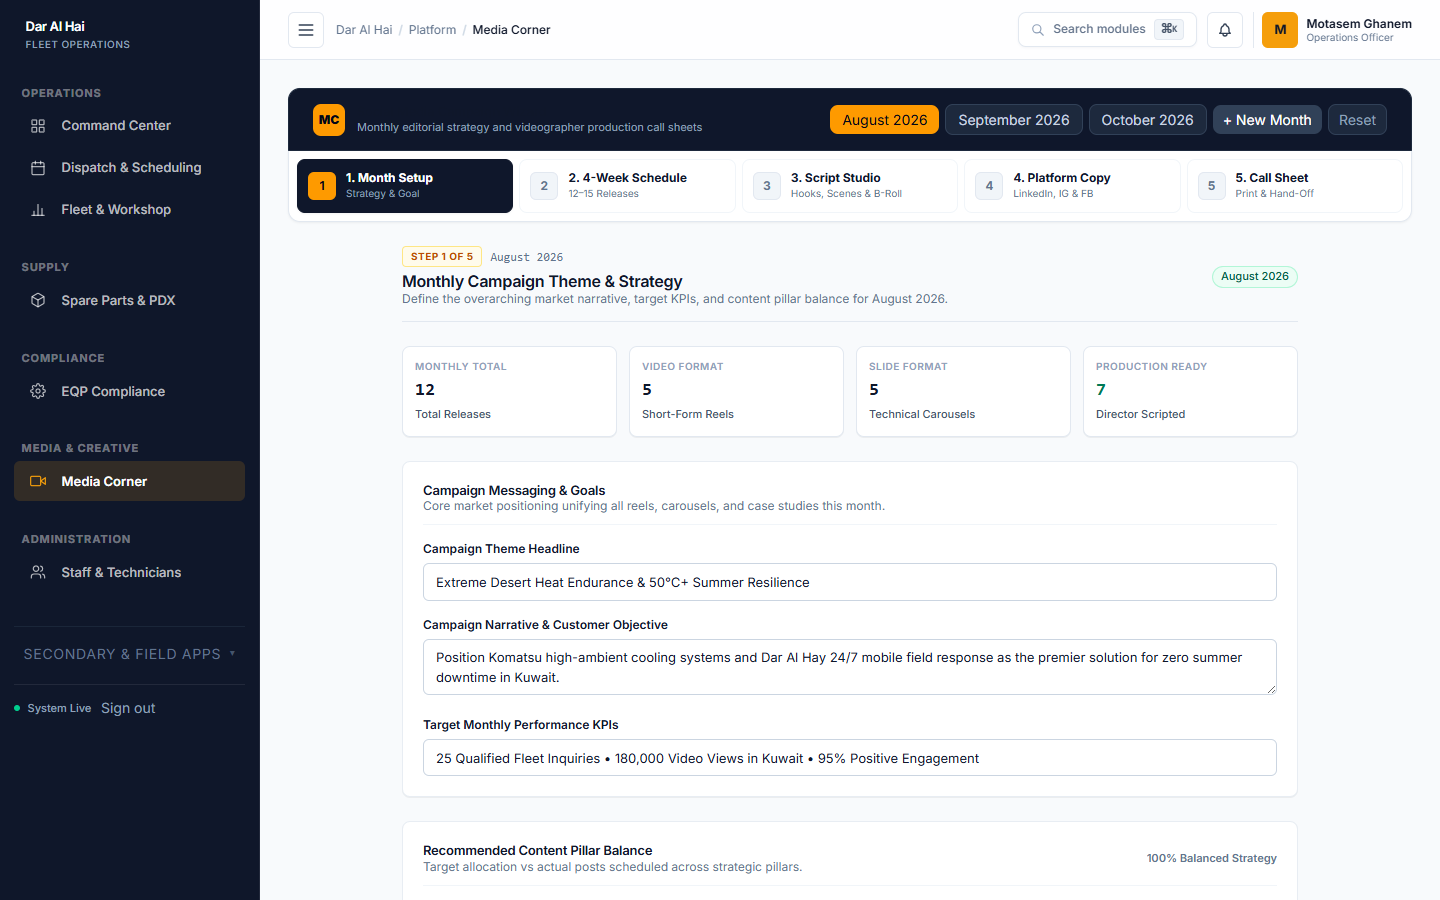
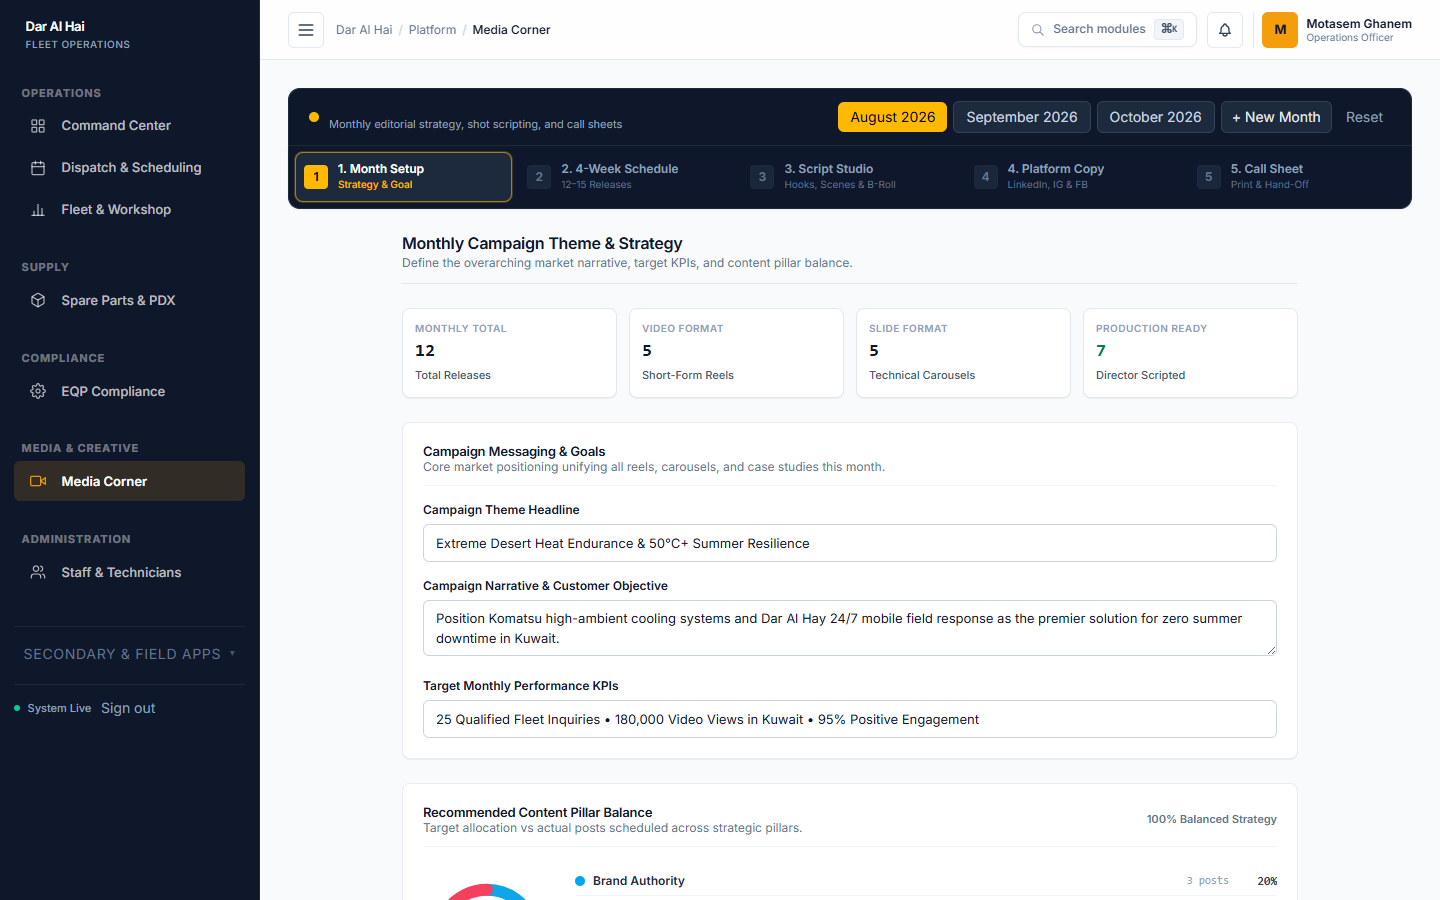
fix(media): unify wizard header and stepper into seamless command bar, removing redundant month badges

diff --git a/frontend/components/media/CampaignWizardStepper.js b/frontend/components/media/CampaignWizardStepper.js
@@ -25,15 +25,13 @@ export default function CampaignWizardStepper({
   return (
     <div className="space-y-0">
       {/* Top Header Bar */}
-      <div className="rounded-t-xl bg-slate-900 border border-slate-800 px-4 py-3.5 sm:px-6">
+      <div className="rounded-t-xl bg-slate-900 border border-slate-800 px-4 py-3 sm:px-5">
         <div className="flex flex-col sm:flex-row sm:items-center sm:justify-between gap-3">
-          <div className="flex items-center gap-3">
-            <div className="w-8 h-8 rounded-lg bg-amber-500 text-slate-950 flex items-center justify-center font-black text-xs shrink-0 shadow-xs">
-              MC
-            </div>
+          <div className="flex items-center gap-2.5">
+            <span className="w-2.5 h-2.5 rounded-full bg-amber-400 shrink-0" />
             <div>
-              <h2 className="text-sm font-bold text-white tracking-tight">Social Media Campaign Wizard</h2>
-              <p className="text-[11px] text-slate-400">Monthly editorial strategy and videographer production call sheets</p>
+              <h2 className="text-xs font-bold uppercase tracking-wider text-slate-100">Media & Campaign Studio</h2>
+              <p className="text-[11px] text-slate-400">Monthly editorial strategy, shot scripting, and call sheets</p>
             </div>
           </div>
 
@@ -46,10 +44,10 @@ export default function CampaignWizardStepper({
                   key={m.monthId}
                   type="button"
                   onClick={() => onSelectMonth(m.monthId)}
-                  className={`px-3 py-1 rounded-lg text-xs font-semibold transition-all cursor-pointer ${
+                  className={`px-3 py-1 rounded-md text-xs transition-all cursor-pointer ${
                     isSelected
-                      ? 'bg-amber-500 text-slate-950 font-bold shadow-xs'
-                      : 'bg-slate-800 border border-slate-700 text-slate-300 hover:bg-slate-700 hover:text-white'
+                      ? 'bg-amber-400 text-slate-950 font-bold shadow-xs'
+                      : 'bg-slate-800 border border-slate-700 text-slate-300 hover:bg-slate-700 hover:text-white font-medium'
                   }`}
                 >
                   {m.monthName}
@@ -60,7 +58,7 @@ export default function CampaignWizardStepper({
             <button
               type="button"
               onClick={onOpenNewMonthModal}
-              className="px-2.5 py-1 rounded-lg text-xs font-bold bg-slate-700 hover:bg-slate-600 text-white transition-all cursor-pointer"
+              className="px-2.5 py-1 rounded-md text-xs font-semibold bg-slate-800 border border-slate-700 text-slate-200 hover:bg-slate-700 hover:text-white transition-all cursor-pointer"
             >
               + New Month
             </button>
@@ -69,8 +67,8 @@ export default function CampaignWizardStepper({
               <button
                 type="button"
                 onClick={onResetCampaign}
-                title="Reload full 12-post master campaign template"
-                className="px-2.5 py-1 rounded-lg text-xs font-medium bg-slate-800 border border-slate-700 text-slate-400 hover:text-white hover:bg-slate-700 transition-all cursor-pointer"
+                title="Reload full master campaign template"
+                className="px-2 py-1 rounded-md text-xs font-medium text-slate-400 hover:text-slate-200 hover:bg-slate-800 transition-all cursor-pointer"
               >
                 Reset
               </button>
@@ -79,63 +77,55 @@ export default function CampaignWizardStepper({
         </div>
       </div>
 
-      {/* 5-Step Visual Stepper Bar */}
-      <div className="bg-white rounded-b-xl border border-t-0 border-slate-200 shadow-xs">
-        {/* Step buttons */}
-        <div className="p-2">
-          <div className="grid grid-cols-2 sm:grid-cols-3 lg:grid-cols-5 gap-1.5">
-            {steps.map((step) => {
-              const isActive = currentStep === step.id;
-              const isCompleted = currentStep > step.id;
+      {/* 5-Step Unified Stepper Bar */}
+      <div className="rounded-b-xl bg-slate-900 border-x border-b border-slate-800 p-1.5 shadow-xs">
+        <div className="grid grid-cols-2 sm:grid-cols-3 lg:grid-cols-5 gap-1.5">
+          {steps.map((step) => {
+            const isActive = currentStep === step.id;
+            const isCompleted = currentStep > step.id;
 
-              return (
-                <button
-                  key={step.id}
-                  type="button"
-                  onClick={() => onStepChange(step.id)}
-                  className={`group relative p-2.5 rounded-lg text-left transition-all flex items-center gap-2.5 border cursor-pointer ${
-                    isActive
-                      ? 'bg-slate-900 text-white border-slate-900 shadow-xs'
-                      : isCompleted
-                      ? 'bg-amber-50/60 border-amber-200 text-slate-800 hover:bg-amber-50'
-                      : 'bg-white border-slate-100 text-slate-600 hover:bg-slate-50 hover:border-slate-200'
-                  }`}
-                >
-                  {/* Step number badge */}
-                  <div className="relative shrink-0">
-                    <div
-                      className={`w-7 h-7 rounded-md flex items-center justify-center font-bold text-xs transition-all ${
-                        isActive
-                          ? 'bg-amber-500 text-slate-950 font-black'
-                          : isCompleted
-                          ? 'bg-amber-500 text-white'
-                          : 'bg-slate-100 text-slate-500 border border-slate-200'
-                      }`}
-                    >
-                      {isCompleted ? (
-                        <svg className="w-3.5 h-3.5" viewBox="0 0 14 14" fill="none">
-                          <path d="M2.5 7.5L5.5 10.5L11.5 3.5" stroke="currentColor" strokeWidth="2" strokeLinecap="round" strokeLinejoin="round" />
-                        </svg>
-                      ) : (
-                        step.id
-                      )}
-                    </div>
+            return (
+              <button
+                key={step.id}
+                type="button"
+                onClick={() => onStepChange(step.id)}
+                className={`p-2 rounded-lg text-left transition-all flex items-center gap-2.5 border cursor-pointer ${
+                  isActive
+                    ? 'bg-slate-800 text-white border-amber-400/60 shadow-xs ring-1 ring-amber-400/20'
+                    : isCompleted
+                    ? 'bg-slate-900/80 border-slate-800/80 text-slate-300 hover:bg-slate-800/60 hover:text-white'
+                    : 'bg-slate-900/30 border-transparent text-slate-500 hover:bg-slate-800/30 hover:text-slate-400'
+                }`}
+              >
+                {/* Step number badge */}
+                <div className="relative shrink-0">
+                  <div
+                    className={`w-6 h-6 rounded flex items-center justify-center font-bold text-xs transition-all ${
+                      isActive
+                        ? 'bg-amber-400 text-slate-950 font-black'
+                        : isCompleted
+                        ? 'bg-slate-800 text-amber-400 border border-slate-700'
+                        : 'bg-slate-800/80 text-slate-500 border border-slate-800'
+                    }`}
+                  >
+                    {isCompleted ? '✓' : step.id}
                   </div>
+                </div>
 
-                  <div className="min-w-0">
-                    <p className={`text-xs font-bold truncate ${isActive ? 'text-white' : 'text-slate-900'}`}>
-                      {step.label}
-                    </p>
-                    <p className={`text-[10px] truncate ${isActive ? 'text-slate-400' : 'text-slate-500'}`}>
-                      {step.desc}
-                    </p>
-                  </div>
-                </button>
-              );
-            })}
-          </div>
+                <div className="min-w-0">
+                  <p className={`text-xs font-semibold truncate ${isActive ? 'text-white' : isCompleted ? 'text-slate-200' : 'text-slate-400'}`}>
+                    {step.label}
+                  </p>
+                  <p className={`text-[10px] truncate ${isActive ? 'text-amber-400 font-medium' : 'text-slate-500'}`}>
+                    {step.desc}
+                  </p>
+                </div>
+              </button>
+            );
+          })}
         </div>
       </div>
+
     </div>
   );
 }

diff --git a/frontend/components/media/steps/Step1MonthSetup.js b/frontend/components/media/steps/Step1MonthSetup.js
@@ -55,22 +55,11 @@ export default function Step1MonthSetup({ campaign, onUpdateCampaign, onNextStep
   return (
     <div className="space-y-6 max-w-4xl mx-auto animate-[ds-toast-in_180ms_ease]">
       {/* Step Header */}
-      <div className="flex flex-col sm:flex-row sm:items-center sm:justify-between gap-2 border-b border-slate-200 pb-3.5">
-        <div>
-          <div className="flex items-center gap-2">
-            <span className="text-[10px] font-bold uppercase tracking-wider text-amber-700 bg-amber-50 border border-amber-200 px-2 py-0.5 rounded">
-              Step 1 of 5
-            </span>
-            <span className="text-xs font-mono font-medium text-slate-500">
-              {campaign.monthName}
-            </span>
-          </div>
-          <h2 className="text-lg font-bold text-slate-900 mt-1">Monthly Campaign Theme & Strategy</h2>
-          <p className="text-xs text-slate-500">Define the overarching market narrative, target KPIs, and content pillar balance for {campaign.monthName}.</p>
-        </div>
-
-        <Badge tone="active">{campaign.monthName}</Badge>
+      <div className="border-b border-slate-200 pb-3">
+        <h2 className="text-base font-bold text-slate-900">Monthly Campaign Theme & Strategy</h2>
+        <p className="text-xs text-slate-500 mt-0.5">Define the overarching market narrative, target KPIs, and content pillar balance.</p>
       </div>
+
 
       {/* Quick-Stat Metric Strip */}
       <div className="grid grid-cols-2 sm:grid-cols-4 gap-3">

diff --git a/frontend/components/media/steps/Step4PlatformCopy.js b/frontend/components/media/steps/Step4PlatformCopy.js
@@ -67,16 +67,14 @@ export default function Step4PlatformCopy({
   return (
     <div className="space-y-6 animate-[ds-toast-in_180ms_ease]">
       {/* Step Header */}
-      <div className="flex flex-col sm:flex-row sm:items-center sm:justify-between gap-3 border-b border-slate-200 pb-4">
+      <div className="flex flex-col sm:flex-row sm:items-center sm:justify-between gap-3 border-b border-slate-200 pb-3">
         <div>
-          <span className="text-[10px] font-black uppercase tracking-widest text-amber-600 bg-amber-50 border border-amber-200 px-2.5 py-0.5 rounded-full">
-            Step 4 of 5
-          </span>
-          <h2 className="text-xl font-black text-slate-900 mt-1">Multi-Platform Copy & Tone of Voice Studio</h2>
-          <p className="text-xs text-slate-500">
+          <h2 className="text-base font-bold text-slate-900">Multi-Platform Copy & Tone of Voice Studio</h2>
+          <p className="text-xs text-slate-500 mt-0.5">
             Craft tailored bilingual copy for LinkedIn (B2B Authority), Instagram (Visual Impact), and Facebook (Community/Sales).
           </p>
         </div>
+
 
         {/* Copy Completion Ring */}
         <div className="flex items-center gap-3 bg-white p-3 rounded-xl border border-slate-200 shadow-xs">

diff --git a/frontend/components/media/steps/Step2ContentSchedule.js b/frontend/components/media/steps/Step2ContentSchedule.js
@@ -45,19 +45,12 @@ export default function Step2ContentSchedule({
       {/* Top Header: Clean, professional, executive title & actions */}
       <div className="flex flex-col sm:flex-row sm:items-center sm:justify-between gap-3 bg-white p-4 rounded-xl border border-slate-200 shadow-2xs">
         <div>
-          <div className="flex items-center gap-2">
-            <span className="text-[10px] font-bold uppercase tracking-wider text-amber-700 bg-amber-50 border border-amber-200 px-2 py-0.5 rounded">
-              Step 2 of 5
-            </span>
-            <span className="text-xs font-mono font-medium text-slate-500">
-              {campaign.monthName}
-            </span>
-          </div>
-          <h2 className="text-lg font-bold text-slate-900 mt-1">4-Week Content Plan & Schedule</h2>
+          <h2 className="text-base font-bold text-slate-900">4-Week Content Plan & Schedule</h2>
           <p className="text-xs text-slate-500 mt-0.5">
             Cadence: 3 Posts / Week (Sundays, Tuesdays & Thursdays). Click any card to edit its script.
           </p>
         </div>
+
 
         <div className="flex flex-wrap items-center gap-2 self-start sm:self-auto">
           {/* View Mode Toggle */}

diff --git a/frontend/components/media/steps/Step5VideographerCallSheet.js b/frontend/components/media/steps/Step5VideographerCallSheet.js
@@ -54,16 +54,14 @@ SAFETY & PPE: Safety vest, hardhat, steel-toe boots required on all Kuwait works
   return (
     <div className="space-y-6 animate-[ds-toast-in_180ms_ease]">
       {/* Step Header */}
-      <div className="flex flex-col sm:flex-row sm:items-center sm:justify-between gap-3 border-b border-slate-200 pb-4">
+      <div className="flex flex-col sm:flex-row sm:items-center sm:justify-between gap-3 border-b border-slate-200 pb-3">
         <div>
-          <span className="text-[10px] font-bold uppercase tracking-wider text-emerald-700 bg-emerald-50 border border-emerald-200 px-2 py-0.5 rounded">
-            Step 5 of 5
-          </span>
-          <h2 className="text-lg font-bold text-slate-900 mt-1">Videographer Production Call Sheet</h2>
-          <p className="text-xs text-slate-500">
+          <h2 className="text-base font-bold text-slate-900">Videographer Production Call Sheet</h2>
+          <p className="text-xs text-slate-500 mt-0.5">
             Print or copy clean shot lists and scripts directly for your camera crew and graphic designers.
           </p>
         </div>
+
 
         {/* View Switcher & Print Controls */}
         <div className="flex items-center gap-2">

diff --git a/frontend/components/media/steps/Step3DirectorScriptStudio.js b/frontend/components/media/steps/Step3DirectorScriptStudio.js
@@ -110,16 +110,14 @@ export default function Step3DirectorScriptStudio({
   return (
     <div className="space-y-6 animate-[ds-toast-in_180ms_ease]">
       {/* Step Header */}
-      <div className="flex flex-col sm:flex-row sm:items-center sm:justify-between gap-3 border-b border-slate-200 pb-4">
+      <div className="flex flex-col sm:flex-row sm:items-center sm:justify-between gap-3 border-b border-slate-200 pb-3">
         <div>
-          <span className="text-[10px] font-bold uppercase tracking-wider text-amber-700 bg-amber-50 border border-amber-200 px-2 py-0.5 rounded">
-            Step 3 of 5
-          </span>
-          <h2 className="text-lg font-bold text-slate-900 mt-1">Director&apos;s Script & Scene Studio</h2>
-          <p className="text-xs text-slate-500">
+          <h2 className="text-base font-bold text-slate-900">Director&apos;s Script & Scene Studio</h2>
+          <p className="text-xs text-slate-500 mt-0.5">
             Script the 3-second hook, timecoded shot breakdown, and B-roll checklist for your videographer.
           </p>
         </div>
+
 
         <div className="flex items-center gap-2">
           <Button
